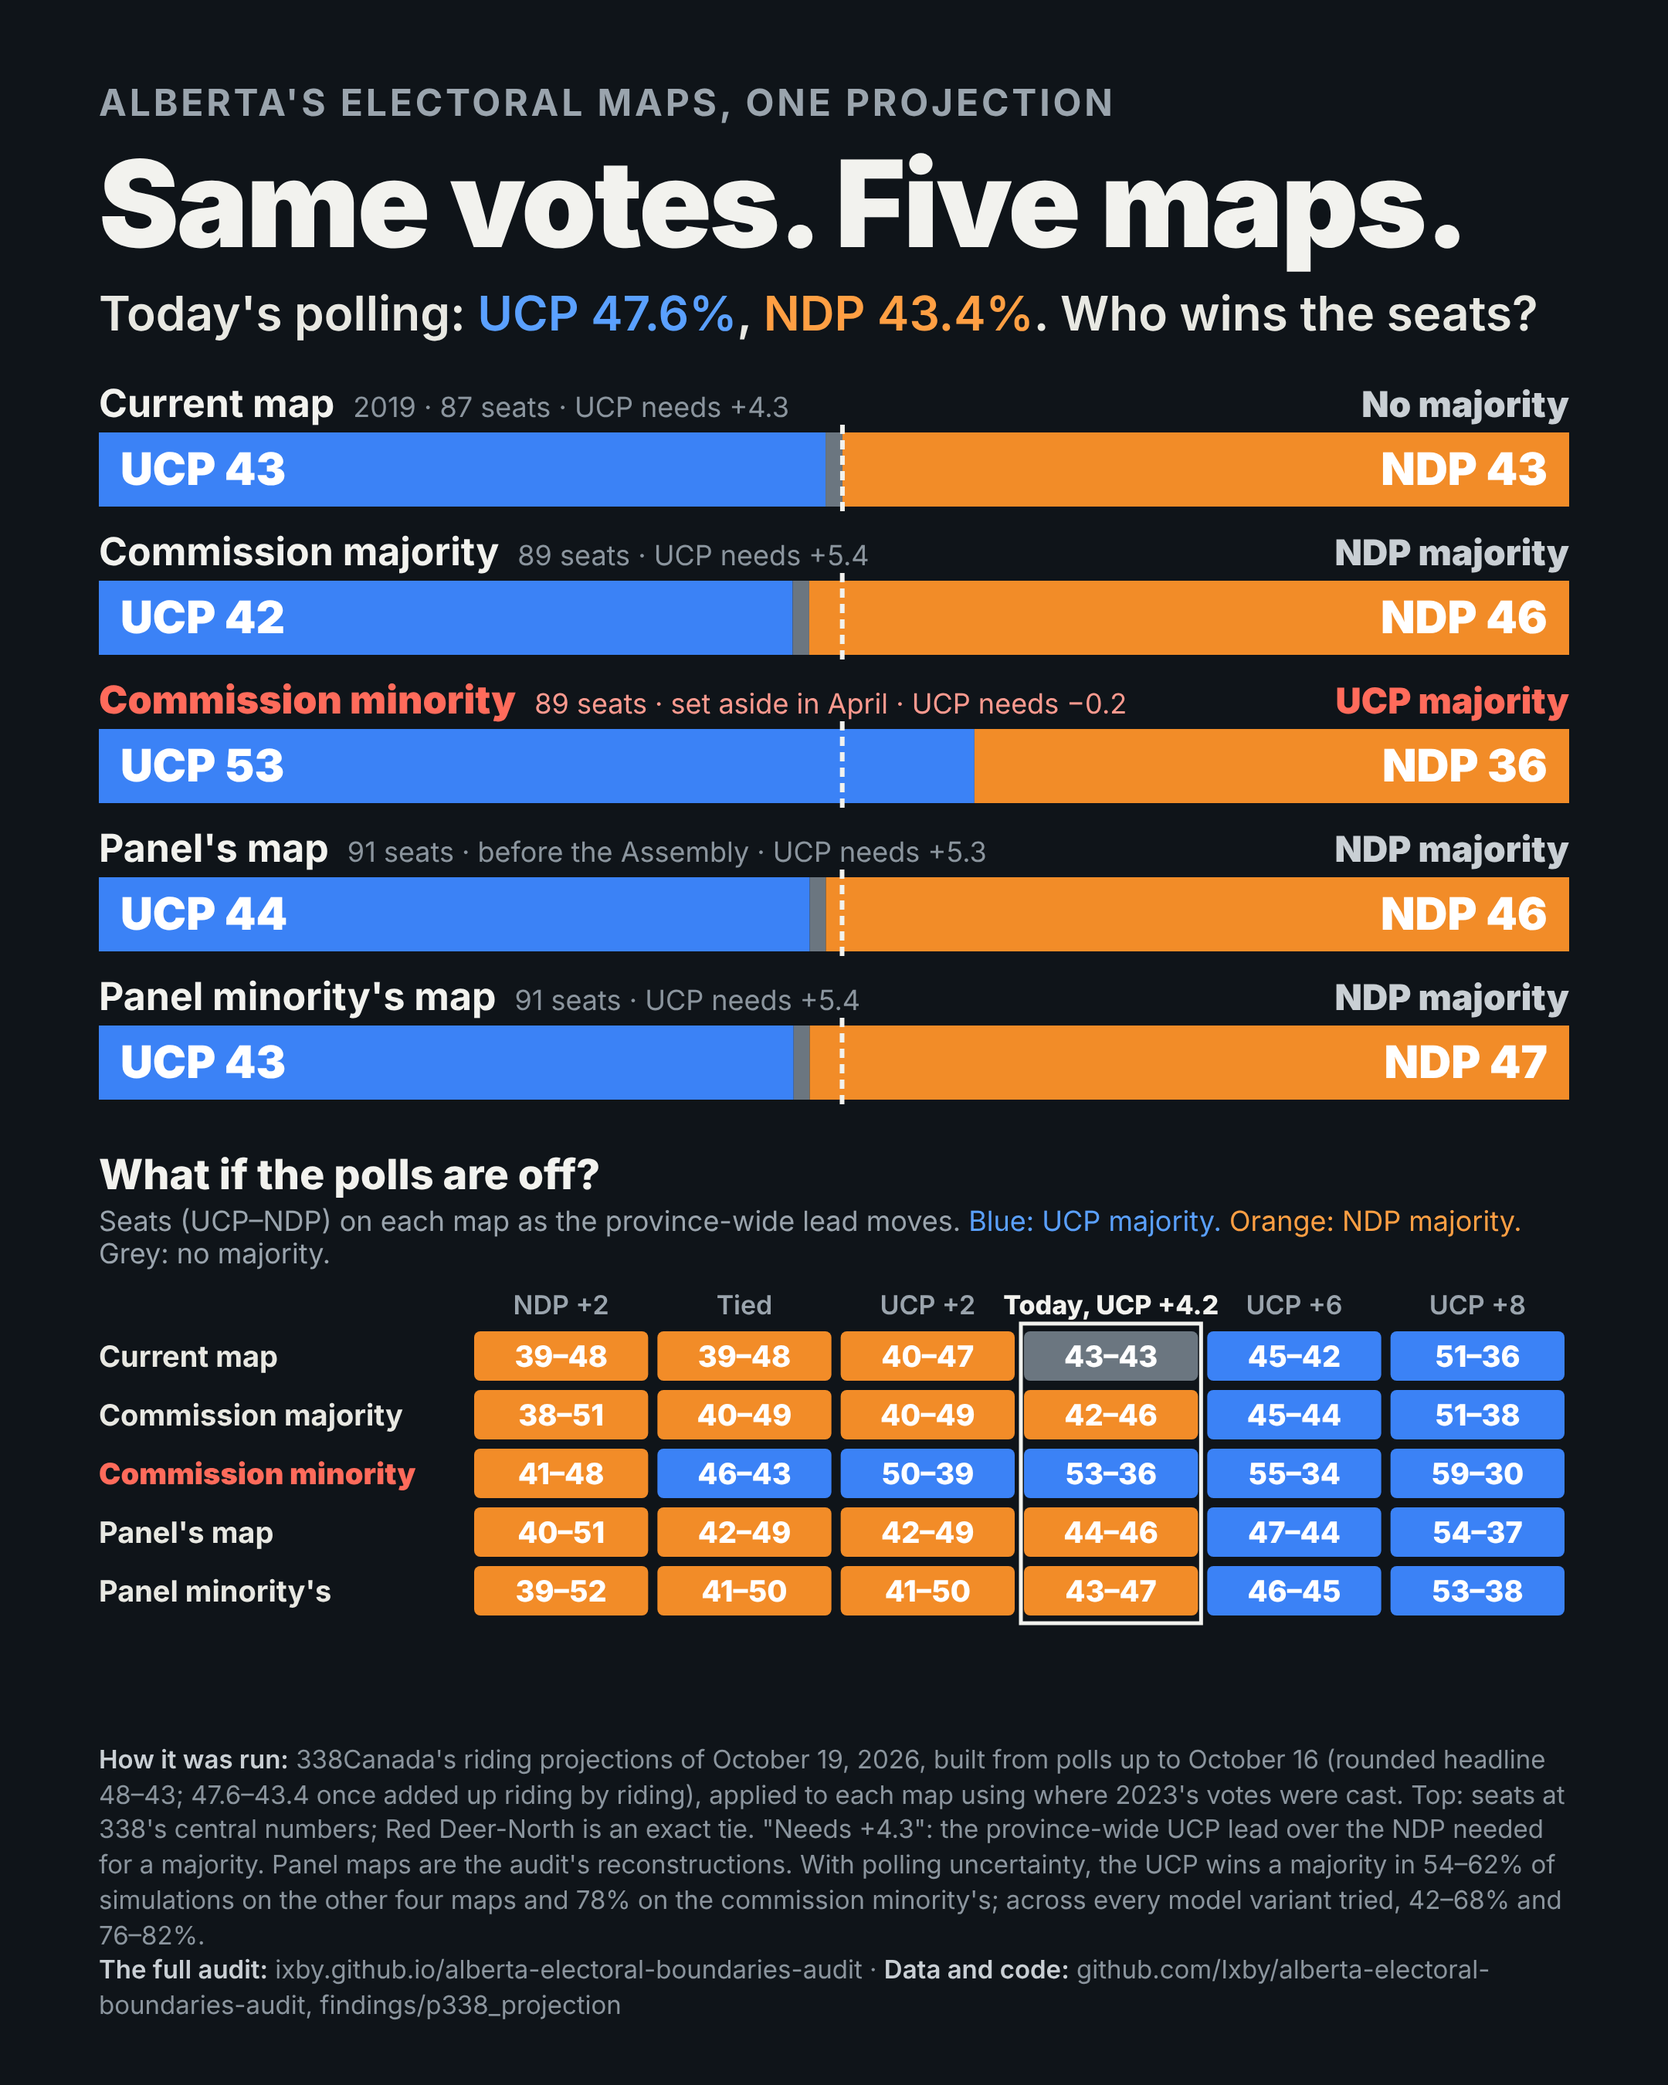
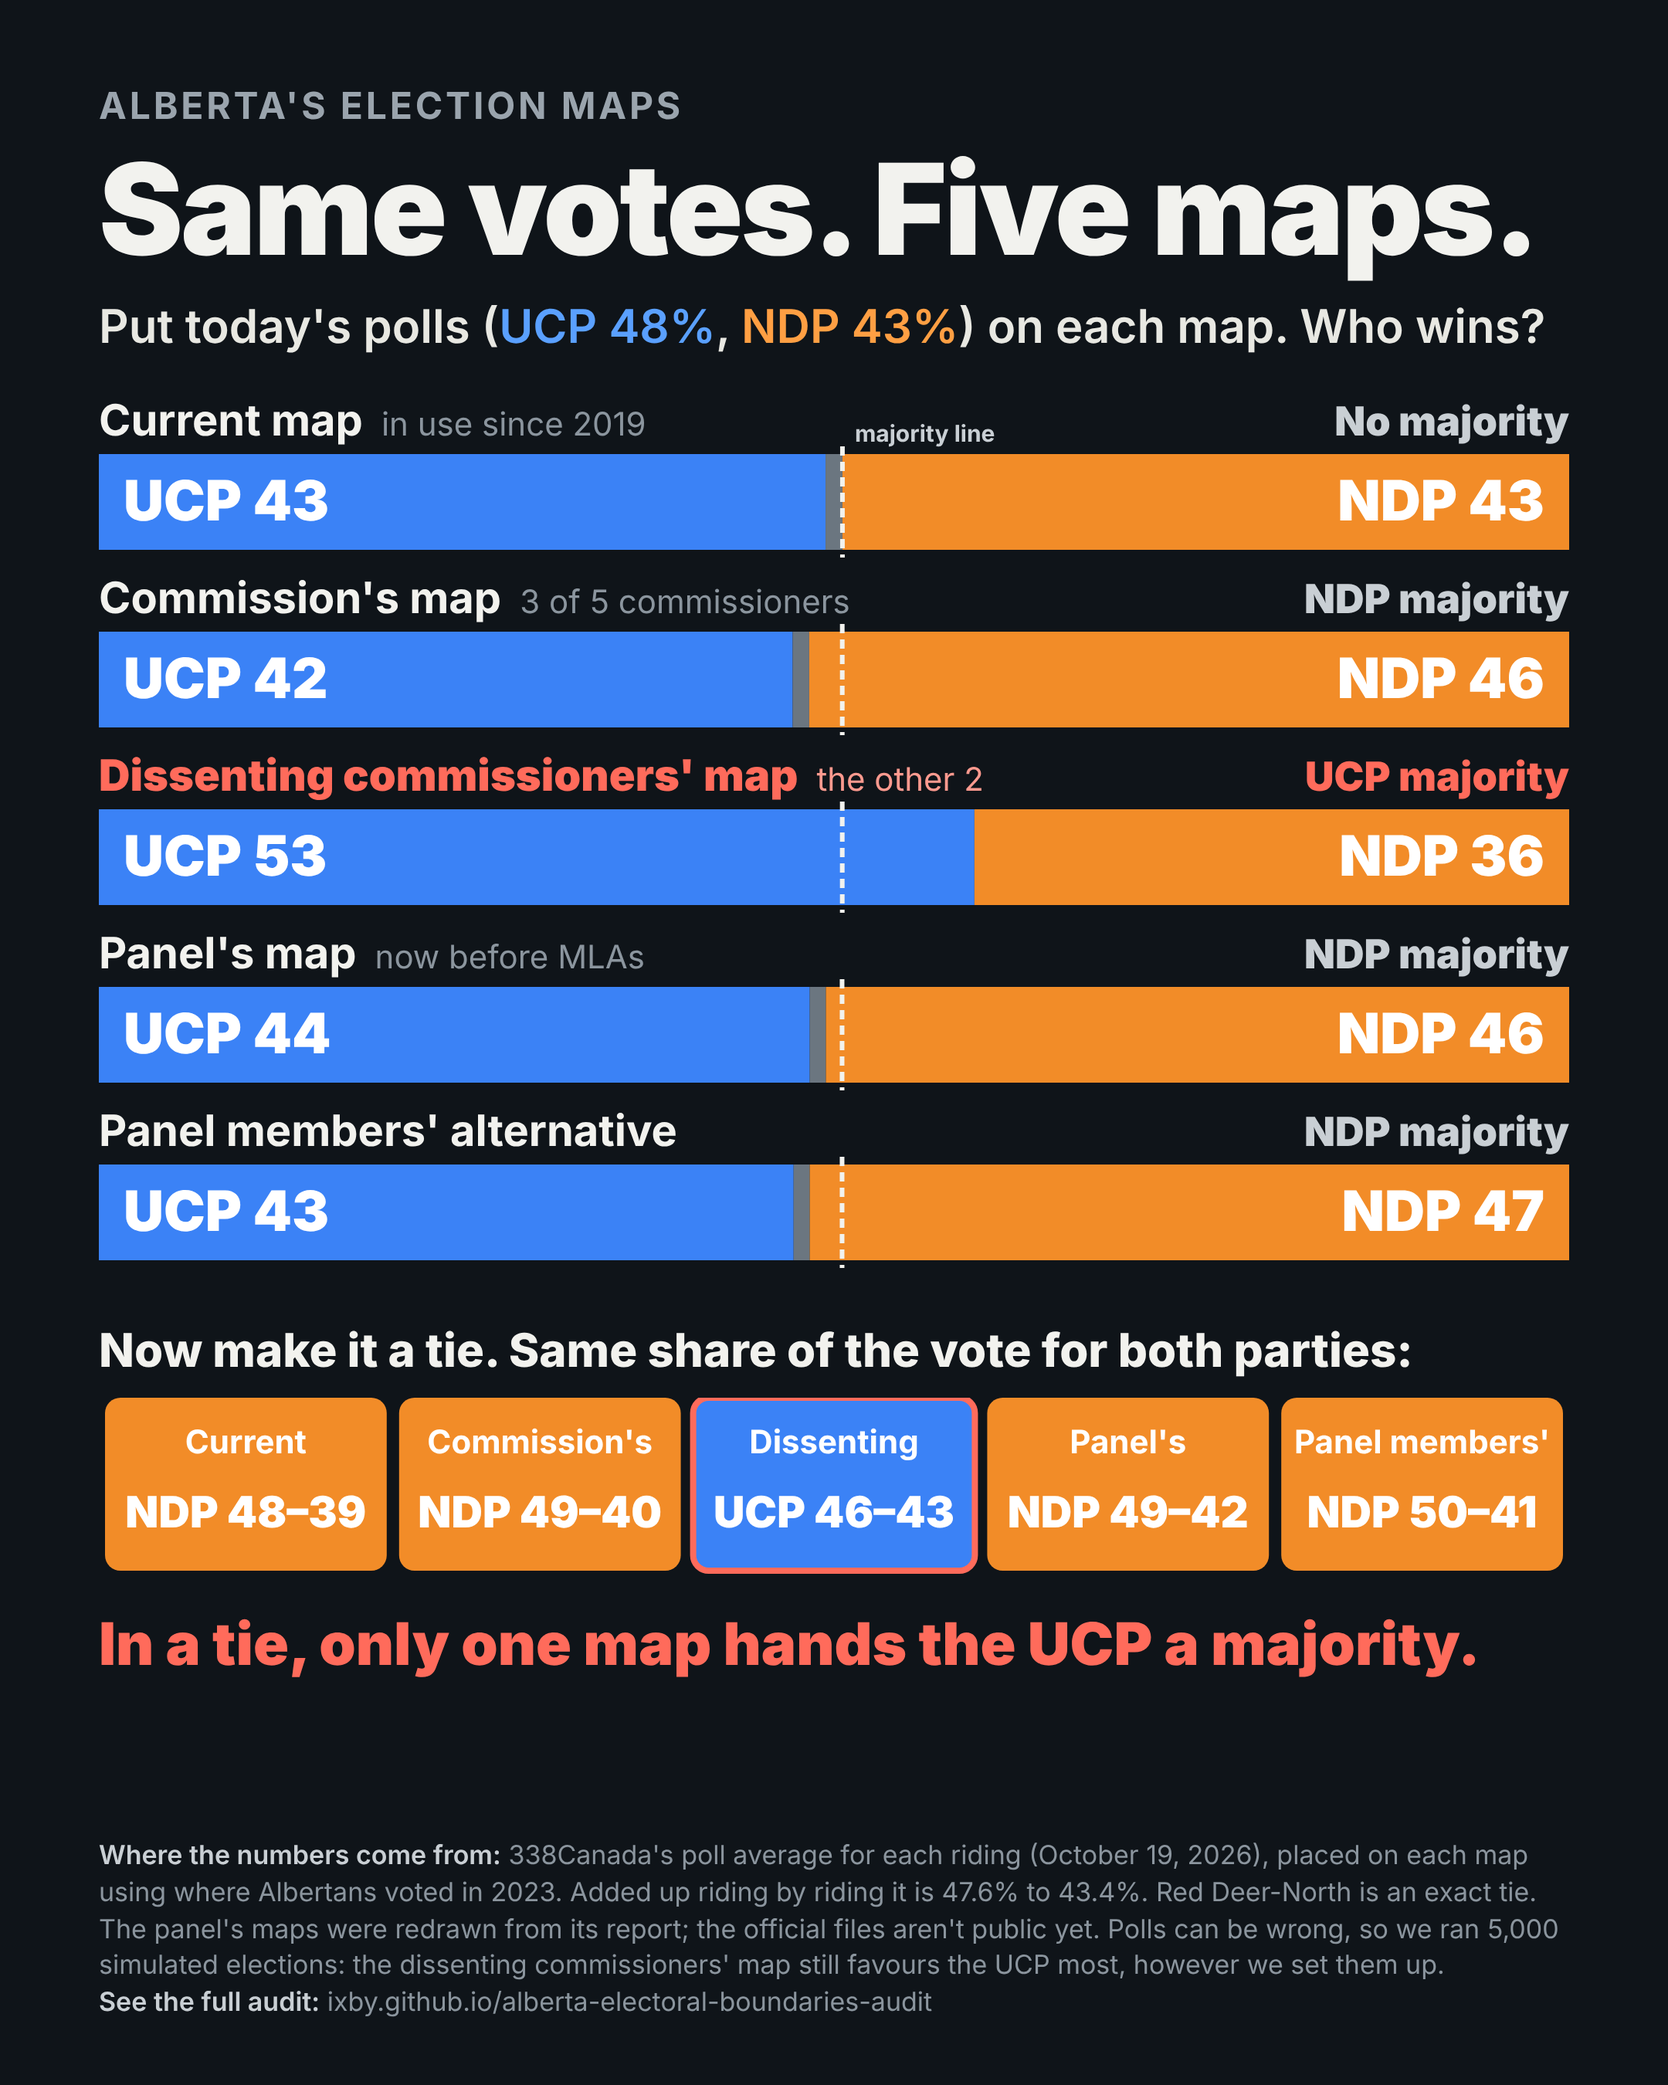
Chart: rewrite for a general reader, no jargon
Two plain questions: who wins on each map at today's polls, and who wins in a tied vote (the
sensitivity check in its simplest form). Plain labels: commission's map, dissenting
commissioners' map, panel's map, panel members' alternative. One punchline: in a tie, only one
map hands the UCP a majority. Footer keeps the source, the reconstruction caveat and the
simulation's robustness in plain words.

Claude-Session: https://claude.ai/code/session_018fR2piQUSLgKm3yG7SKLG7

diff --git a/findings/p338_projection/meme/same_votes_five_maps.html b/findings/p338_projection/meme/same_votes_five_maps.html
@@ -1,80 +1,78 @@
 <!doctype html>
 <html><head><meta charset="utf-8">
+<!-- Every number comes from findings/p338_projection/out/: today's seats = results.json point.<map>.proportional;
+     tied-vote seats = seats_vs_lead.csv at provincial_ucp_lead_pts nearest 0 (-0.021). -->
 <style>
   html,body{margin:0;padding:0;background:#0f1419;}
-  .card{width:1080px;height:1350px;box-sizing:border-box;padding:52px 64px 40px;background:#0f1419;color:#f2f2ee;
+  .card{width:1080px;height:1350px;box-sizing:border-box;padding:54px 64px 40px;background:#0f1419;color:#f2f2ee;
         font-family:"Helvetica Neue",Arial,sans-serif;display:flex;flex-direction:column;}
   .kicker{font-size:24px;letter-spacing:.08em;text-transform:uppercase;color:#9aa4ad;font-weight:700;}
-  h1{font-size:78px;line-height:1.0;margin:12px 0 14px;font-weight:900;letter-spacing:-.02em;white-space:nowrap;}
-  .q{font-size:31px;line-height:1.25;color:#e8e8e2;margin:0 0 20px;font-weight:600;}
+  h1{font-size:82px;line-height:1.0;margin:12px 0 16px;font-weight:900;letter-spacing:-.02em;white-space:nowrap;}
+  .q{font-size:30px;line-height:1.3;color:#e8e8e2;margin:0 0 22px;font-weight:600;}
   .q .u{color:#5aa0ff} .q .n{color:#ff9f43}
   svg{flex-shrink:0;display:block}
   svg text{font-family:"Helvetica Neue",Arial,sans-serif;}
-  .sens{margin-top:18px}
-  .sens .t{font-size:27px;font-weight:800;margin:0 0 4px}
-  .sens .s{font-size:18px;color:#9aa4ad;margin:0 0 10px}
-  .foot{margin-top:auto;font-size:16.5px;line-height:1.38;color:#8b959e;}
+  .tie{margin-top:26px}
+  .tie .t{font-size:30px;font-weight:800;margin:0 0 12px}
+  .punch{margin-top:22px;font-size:38px;line-height:1.2;font-weight:900;color:#ff6b5b}
+  .foot{margin-top:auto;font-size:17px;line-height:1.4;color:#8b959e;}
   .foot b{color:#c9cfd4;font-weight:600}
 </style></head>
 <body><div class="card">
-  <div class="kicker">Alberta's electoral maps, one projection</div>
+  <div class="kicker">Alberta's election maps</div>
   <h1>Same votes. Five maps.</h1>
-  <div class="q">Today's polling: <span class="u">UCP 47.6%</span>, <span class="n">NDP 43.4%</span>. Who wins the seats?</div>
-  <svg id="bars" width="952" height="482" viewBox="0 0 952 482"></svg>
-  <div class="sens">
-    <div class="t">What if the polls are off?</div>
-    <div class="s">Seats (UCP–NDP) on each map as the province-wide lead moves. <span style="color:#5aa0ff">Blue: UCP majority.</span> <span style="color:#ff9f43">Orange: NDP majority.</span> Grey: no majority.</div>
-    <svg id="grid" width="952" height="236" viewBox="0 0 952 236"></svg>
+  <div class="q">Put today's polls (<span class="u">UCP 48%</span>, <span class="n">NDP 43%</span>) on each map. Who wins?</div>
+  <svg id="bars" width="952" height="577" viewBox="0 0 952 577"></svg>
+  <div class="tie">
+    <div class="t">Now make it a tie. Same share of the vote for both parties:</div>
+    <svg id="tie" width="952" height="116" viewBox="0 0 952 116"></svg>
   </div>
+  <div class="punch">In a tie, only one map hands the UCP a majority.</div>
   <div class="foot">
-    <b>How it was run:</b> 338Canada's riding projections of October 19, 2026, built from polls up to October 16 (rounded headline 48–43; 47.6–43.4 once added up riding by riding), applied to each map using where 2023's votes were cast. Top: seats at 338's central numbers; Red Deer-North is an exact tie. "Needs +4.3": the province-wide UCP lead over the NDP needed for a majority. Panel maps are the audit's reconstructions. With polling uncertainty, the UCP wins a majority in 54–62% of simulations on the other four maps and 78% on the commission minority's; across every model variant tried, 42–68% and 76–82%.<br>
-    <b>The full audit:</b> ixby.github.io/alberta-electoral-boundaries-audit · <b>Data and code:</b> github.com/Ixby/alberta-electoral-boundaries-audit, findings/p338_projection
+    <b>Where the numbers come from:</b> 338Canada's poll average for each riding (October 19, 2026), placed on each map using where Albertans voted in 2023. Added up riding by riding it is 47.6% to 43.4%. Red Deer-North is an exact tie. The panel's maps were redrawn from its report; the official files aren't public yet. Polls can be wrong, so we ran 5,000 simulated elections: the dissenting commissioners' map still favours the UCP most, however we set them up.<br>
+    <b>See the full audit:</b> ixby.github.io/alberta-electoral-boundaries-audit
   </div>
 </div>
 <script>
 const rows = [
-  {key:'map2019', name:"Current map", short:"Current map", sub:"2019 · 87 seats", u:43, t:1, n:43, need:44, verdict:"No majority", lead:"+4.3"},
-  {key:'majority', name:"Commission majority", short:"Commission majority", sub:"89 seats", u:42, t:1, n:46, need:45, verdict:"NDP majority", lead:"+5.4"},
-  {key:'minority', name:"Commission minority", short:"Commission minority", sub:"89 seats · set aside in April", u:53, t:0, n:36, need:45, verdict:"UCP majority", lead:"−0.2", hot:true},
-  {key:'panel', name:"Panel's map", short:"Panel's map", sub:"91 seats · before the Assembly", u:44, t:1, n:46, need:46, verdict:"NDP majority", lead:"+5.3"},
-  {key:'para167', name:"Panel minority's map", short:"Panel minority's", sub:"91 seats", u:43, t:1, n:47, need:46, verdict:"NDP majority", lead:"+5.4"},
+  {key:'map2019', name:"Current map", sub:"in use since 2019", u:43, t:1, n:43, need:44, verdict:"No majority", tie:[39,48]},
+  {key:'majority', name:"Commission's map", sub:"3 of 5 commissioners", u:42, t:1, n:46, need:45, verdict:"NDP majority", tie:[40,49]},
+  {key:'minority', name:"Dissenting commissioners' map", sub:"the other 2", u:53, t:0, n:36, need:45, verdict:"UCP majority", tie:[46,43], hot:true},
+  {key:'panel', name:"Panel's map", sub:"now before MLAs", u:44, t:1, n:46, need:46, verdict:"NDP majority", tie:[42,49]},
+  {key:'para167', name:"Panel members' alternative", sub:"", u:43, t:1, n:47, need:46, verdict:"NDP majority", tie:[41,50]},
 ];
-const GRID = {"map2019": [[39, 48, "N"], [39, 48, "N"], [40, 47, "N"], [43, 43, "-"], [45, 42, "U"], [51, 36, "U"]], "majority": [[38, 51, "N"], [40, 49, "N"], [40, 49, "N"], [42, 46, "N"], [45, 44, "U"], [51, 38, "U"]], "panel": [[40, 51, "N"], [42, 49, "N"], [42, 49, "N"], [44, 46, "N"], [47, 44, "U"], [54, 37, "U"]], "para167": [[39, 52, "N"], [41, 50, "N"], [41, 50, "N"], [43, 47, "N"], [46, 45, "U"], [53, 38, "U"]], "minority": [[41, 48, "N"], [46, 43, "U"], [50, 39, "U"], [53, 36, "U"], [55, 34, "U"], [59, 30, "U"]]};
 const NS = 'http://www.w3.org/2000/svg';
 const mk = (svg) => (tag, a, txt) => { const e = document.createElementNS(NS, tag); for (const k in a) e.setAttribute(k, a[k]); if (txt != null) e.textContent = txt; svg.appendChild(e); return e; };
 const UCP = '#3b82f6', NDP = '#f28c28', TIE = '#6b7680';
-const bars = document.getElementById('bars'), b = mk(bars);
+const b = mk(document.getElementById('bars'));
 function measure(el, t, size, weight) { const e = el('text', {x: -9999, y: -9999, 'font-size': size, 'font-weight': weight}, t); const w = e.getComputedTextLength(); e.remove(); return w; }
-const W = 952, BAR_Y = 34, BH = 48, ROW = 96;
+const W = 952, BAR_Y = 38, BH = 62, ROW = 115;
 rows.forEach((r, i) => {
   const y = 2 + i * ROW, total = r.u + r.t + r.n, s = W / total;
   const nw = r.hot ? 900 : 700, nc = r.hot ? '#ff6b5b' : '#f2f2ee';
-  b('text', {x: 0, y: y + 24, fill: nc, 'font-size': 25, 'font-weight': nw}, r.name);
-  b('text', {x: measure(b, r.name, 25, nw) + 12, y: y + 24, fill: r.hot ? '#ff9a8f' : '#8b959e', 'font-size': 18}, r.sub + ' · UCP needs ' + r.lead);
-  b('text', {x: W, y: y + 24, fill: r.hot ? '#ff6b5b' : '#c9cfd4', 'font-size': 23, 'font-weight': 900, 'text-anchor': 'end'}, r.verdict);
+  b('text', {x: 0, y: y + 26, fill: nc, 'font-size': 28, 'font-weight': nw}, r.name);
+  if (r.sub) b('text', {x: measure(b, r.name, 28, nw) + 12, y: y + 26, fill: r.hot ? '#ff9a8f' : '#8b959e', 'font-size': 21}, r.sub);
+  b('text', {x: W, y: y + 26, fill: r.hot ? '#ff6b5b' : '#c9cfd4', 'font-size': 26, 'font-weight': 900, 'text-anchor': 'end'}, r.verdict);
   let x = 0;
   b('rect', {x, y: y + BAR_Y, width: r.u * s, height: BH, fill: UCP});
-  b('text', {x: 14, y: y + BAR_Y + 34, fill: '#fff', 'font-size': 29, 'font-weight': 900}, 'UCP ' + r.u);
+  b('text', {x: 16, y: y + BAR_Y + 43, fill: '#fff', 'font-size': 36, 'font-weight': 900}, 'UCP ' + r.u);
   x += r.u * s;
   if (r.t) { b('rect', {x, y: y + BAR_Y, width: r.t * s, height: BH, fill: TIE}); x += r.t * s; }
   b('rect', {x, y: y + BAR_Y, width: r.n * s, height: BH, fill: NDP});
-  b('text', {x: W - 14, y: y + BAR_Y + 34, fill: '#fff', 'font-size': 29, 'font-weight': 900, 'text-anchor': 'end'}, 'NDP ' + r.n);
+  b('text', {x: W - 16, y: y + BAR_Y + 43, fill: '#fff', 'font-size': 36, 'font-weight': 900, 'text-anchor': 'end'}, 'NDP ' + r.n);
   const mx = r.need * s;
   b('line', {x1: mx, y1: y + BAR_Y - 5, x2: mx, y2: y + BAR_Y + BH + 5, stroke: '#f2f2ee', 'stroke-width': 3, 'stroke-dasharray': '6 4'});
+  if (i === 0) b('text', {x: mx + 8, y: y + BAR_Y - 8, fill: '#c9cfd4', 'font-size': 15, 'font-weight': 700}, 'majority line');
 });
-const grid = document.getElementById('grid'), g = mk(grid);
-const cols = ['NDP +2', 'Tied', 'UCP +2', 'Today, UCP +4.2', 'UCP +6', 'UCP +8'];
-const LX = 240, CW = (W - LX) / cols.length, RH = 38, HY = 26;
-cols.forEach((c, j) => g('text', {x: LX + j * CW + CW / 2, y: 18, fill: j === 3 ? '#f2f2ee' : '#9aa4ad', 'font-size': j === 3 ? 17 : 17, 'font-weight': j === 3 ? 800 : 600, 'text-anchor': 'middle'}, c));
-g('rect', {x: LX + 3 * CW + 1, y: HY - 2, width: CW - 2, height: rows.length * RH + 4, fill: 'none', stroke: '#f2f2ee', 'stroke-width': 2.5});
+const t = mk(document.getElementById('tie'));
+const short = ["Current", "Commission's", "Dissenting", "Panel's", "Panel members'"];
+const CW = W / rows.length;
 rows.forEach((r, i) => {
-  const y = HY + i * RH;
-  g('text', {x: 0, y: y + 26, fill: r.hot ? '#ff6b5b' : '#e8e8e2', 'font-size': 19, 'font-weight': r.hot ? 900 : 700}, r.short);
-  GRID[r.key].forEach(([u, n, w], j) => {
-    const fill = w === 'U' ? UCP : (w === 'N' ? NDP : TIE);
-    g('rect', {x: LX + j * CW + 3, y: y + 3, width: CW - 6, height: RH - 6, fill, rx: 4});
-    g('text', {x: LX + j * CW + CW / 2, y: y + 26, fill: '#fff', 'font-size': 19, 'font-weight': 800, 'text-anchor': 'middle'}, u + '–' + n);
-  });
+  const [u, n] = r.tie, ucpMaj = u >= r.need, ndpMaj = n >= r.need;
+  const fill = ucpMaj ? UCP : (ndpMaj ? NDP : TIE), x = i * CW + 4, w = CW - 8;
+  t('rect', {x, y: 0, width: w, height: 112, rx: 10, fill, stroke: r.hot ? '#ff6b5b' : 'none', 'stroke-width': r.hot ? 4 : 0});
+  t('text', {x: x + w / 2, y: 36, fill: '#fff', 'font-size': 21, 'font-weight': 700, 'text-anchor': 'middle'}, short[i]);
+  t('text', {x: x + w / 2, y: 84, fill: '#fff', 'font-size': 28, 'font-weight': 900, 'text-anchor': 'middle'}, (ucpMaj ? 'UCP ' + u + '–' + n : 'NDP ' + n + '–' + u));
 });
 </script>
 </body></html>

diff --git a/findings/p338_projection/README.md b/findings/p338_projection/README.md
@@ -146,4 +146,8 @@ All files are in this folder, `p338/sim/`.
 
 ## The chart: "Same votes. Five maps."
 
-`data/maps/article/same_votes_five_maps.png` (1080×1350, rendered at 2×) shows the seats each map gives at 338's central numbers, with the UCP lead each map needs for a majority as the supporting figure. Its lower grid is the sensitivity: seats on each map at province-wide UCP leads of −2, 0, +2, +6 and +8 points (from `out/seats_vs_lead.csv`, nearest step) beside today's +4.2, coloured by who holds a majority. The footer's variant range (42–68% and 76–82%) is the UCP majority odds across `mc.main`, `mc.additive_swing`, `mc.no_riding_noise`, `mc.riding_noise_x1.5` and `mc.ranges_as_95pct`. Source: `meme/same_votes_five_maps.html`; render with `node meme/render.cjs` (Playwright, Chromium). Every number on it comes from `out/results.json`: seats from `point.<map>.proportional`, the lead needed from `lead_needed.<map>.ucp_majority_from_lead_pts`, the vote shares from `province_projected_pct`, and the simulated majority odds from `mc`.
+`data/maps/article/same_votes_five_maps.png` (1080×1350, rendered at 2×) is written for a general reader. It asks two plain questions:
+- **Today's polls:** who wins on each map? These are the seats at 338's central numbers, from `out/results.json` `point.<map>.proportional`.
+- **A tied vote:** who wins then? This is the sensitivity check in its simplest form, from `out/seats_vs_lead.csv` at the step nearest a zero lead (−0.021). In a tie, four maps give the NDP a majority and the dissenting commissioners' map gives the UCP 46 of 89.
+
+The footer's robustness line ("still favours the UCP most, however we set them up") rests on the UCP majority odds in every variant in `mc`: 76–82% on that map against 42–68% on the other four. The labels avoid jargon: "Commission's map" (3 of 5 commissioners), "Dissenting commissioners' map" (the other 2), "Panel's map" (now before MLAs), "Panel members' alternative" (the panel minority's ¶167 map). The headline uses 338's rounded 48–43; the footer gives the riding-by-riding 47.6–43.4. Source: `meme/same_votes_five_maps.html`; render with `node meme/render.cjs` (Playwright, Chromium).
